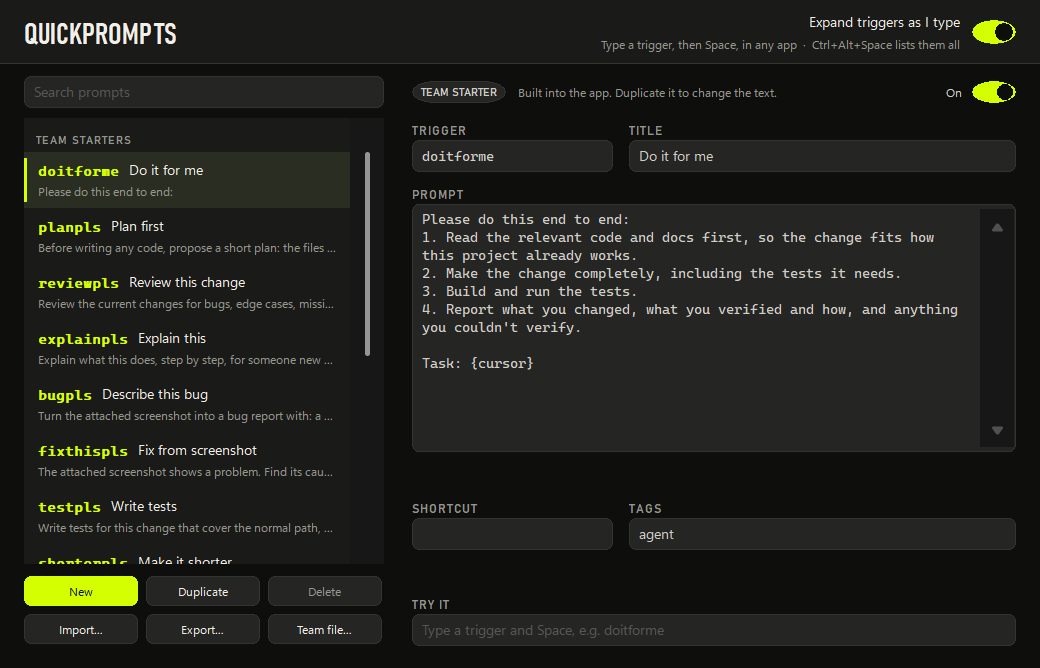
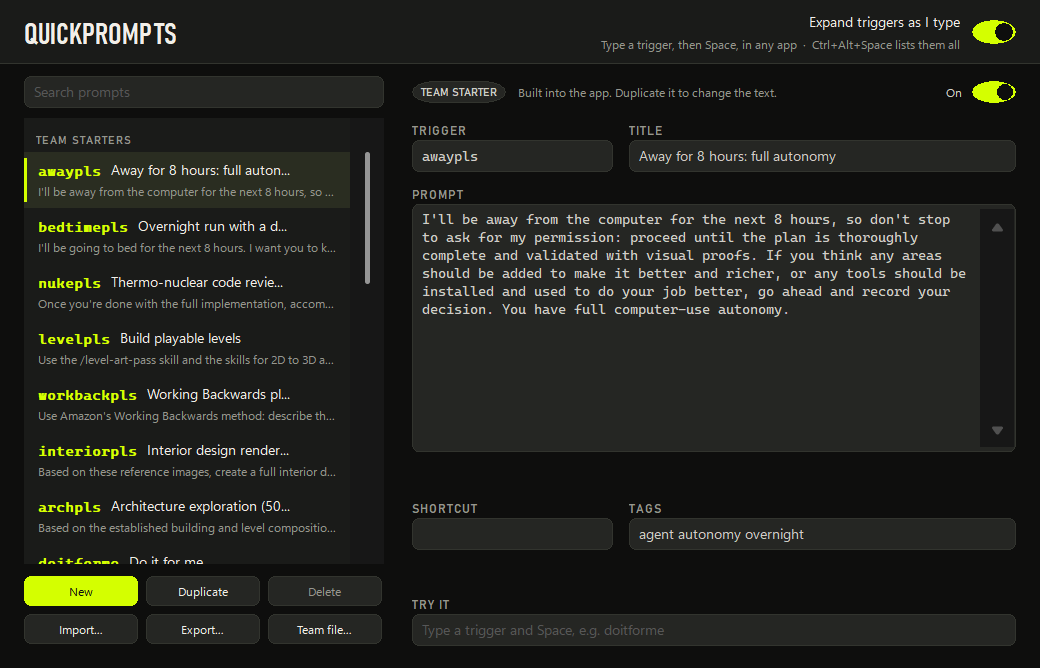
QuickPrompts: the team's seven starters (awaypls, bedtimepls, nukepls, levelpls, workbackpls, interiorpls, archpls)

diff --git a/src/quickprompts.cpp b/src/quickprompts.cpp
@@ -217,6 +217,66 @@ const std::vector<QuickPrompt>& BuiltinQuickPrompts() {
             const wchar_t *id, *trigger, *title, *text, *tags;
         };
         static const B kB[] = {
+            // The team's own starters (from the owner, 2026-11-14), listed first.
+            {L"builtin.awaypls", L"awaypls", L"Away for 8 hours: full autonomy",
+             L"I'll be away from the computer for the next 8 hours, so don't stop to ask for my permission: proceed until "
+             L"the plan is thoroughly complete and validated with visual proofs. If you think any areas should be added to "
+             L"make it better and richer, or any tools should be installed and used to do your job better, go ahead and "
+             L"record your decision. You have full computer-use autonomy.",
+             L"agent autonomy overnight"},
+            {L"builtin.bedtimepls", L"bedtimepls", L"Overnight run with a decision log",
+             L"I'll be going to bed for the next 8 hours. I want you to keep working towards the outcomes outlined and keep "
+             L"pushing for quality. I authorize you with full permissions to make the decisions needed.\n\n"
+             L"Maintain a decision log in HTML for any out-of-the-ordinary decisions you have to make over the next 8 "
+             L"hours, so I can review it tomorrow.\n\n"
+             L"I entrust you with this responsibility. Godspeed.",
+             L"agent autonomy overnight log"},
+            {L"builtin.nukepls", L"nukepls", L"Thermo-nuclear code review gate",
+             L"Once you're done with the full implementation, accompanied by visual proofs, a thermo-nuclear code review "
+             L"must also be run by an Opus agent at extra-high effort, with all critical findings addressed. This is the "
+             L"condition for your Intent to be complete.",
+             L"agent review intent"},
+            {L"builtin.levelpls", L"levelpls", L"Build playable levels",
+             L"Use the /level-art-pass skill and the skills for 2D to 3D and level blockout to build these [Level Name] "
+             L"playable levels for [Biome Name].\n\n"
+             L"- The levels must be scale-accurate for gameplay.\n"
+             L"- Levels must use ActorIO for interactive traversal and puzzle elements, using the existing premade "
+             L"templates and puzzle example setups.\n"
+             L"- Levels should use the /s2-lighting skill to follow the Lighting Standards and capture the lighting and "
+             L"color moods closest to the reference image, adding effects like FogLite, artificial lighting and other "
+             L"forms of lighting, and MegaLights where required.\n"
+             L"- Levels must have hidden rooms and contraptions that reward the player on discovery.\n"
+             L"- Levels must be performant and optimized with best practices, even with a lot of objects and actors.\n"
+             L"- Levels must be set up following World Partition streaming.\n"
+             L"- Levels must be structured to allow for modularity.\n"
+             L"- Levels must focus on sense of scale and composition, and self-correct any inaccuracies in the reference "
+             L"images.\n"
+             L"- Levels should use blockout objects first to capture the composition, then add the detailed blockout with "
+             L"better, more realistic assets from the repo library where available.\n"
+             L"- Levels must take advantage of and use the existing enemies and bosses.\n"
+             L"- If your agents have access to Blender and the Tripo API, use them. If you need Blender, install it so "
+             L"agents can use it.\n\n"
+             L"When the level is complete, run a /level-art-pass loop with a fresh-eyes review agent. The visual quality "
+             L"must reach a score of 7/10 for the Intent to be complete.",
+             L"level art unreal blockout lighting"},
+            {L"builtin.workbackpls", L"workbackpls", L"Working Backwards plan",
+             L"Use Amazon's Working Backwards method: describe the outcomes that would make our players feel joy and value "
+             L"in [Feature]. Based on that, create a living document that details the plan to reach the ultimate outcome, "
+             L"and the features and UX/UI improvements we need to get there.",
+             L"product planning ux"},
+            {L"builtin.interiorpls", L"interiorpls", L"Interior design rendering album",
+             L"Based on these reference images, create a full interior design concept rendering album of [Number] images "
+             L"covering every interior aspect of a [Luxury Beach Boutique Resort Villa Hotel]: [Front Drop-off, "
+             L"Reception, Grand Welcome Entrance, Lift Lobby, Guest Lounge, Signature Restaurants, Room Corridor, Room "
+             L"Signage, Room Closet, Toilet, Bathtub, Bedroom, Minibar Cupboard, Room Balcony], across all room types.",
+             L"concept art images interior"},
+            {L"builtin.archpls", L"archpls", L"Architecture exploration (50 images)",
+             L"Based on the established building and level compositions, generate 50 images that focus on the "
+             L"architectural designs, covering all angles and key areas of each design. I want to explore the spectrum of "
+             L"colors and materials that are [Genre] but tastefully blended with [Genre], with touches of [Theme A], "
+             L"[Theme B] and [Theme C].",
+             L"concept art images architecture"},
+            // The first starters.
             {L"builtin.doitforme", L"doitforme", L"Do it for me",
              L"Please do this end to end:\n"
              L"1. Read the relevant code and docs first, so the change fits how this project already works.\n"

diff --git a/src/main.cpp b/src/main.cpp
@@ -2081,9 +2081,9 @@ ATHER_TEST(quickprompts_settings_commands_and_ui) {
     uh.typing = [] { return true; };
     uh.pickerHotkey = [] { return std::wstring(L"Ctrl+Alt+Space"); };
     std::vector<std::wstring> rows;
-    const BitmapPtr win = QuickPromptsSnapshot(uh, L"builtin.doitforme", &rows);
+    const BitmapPtr win = QuickPromptsSnapshot(uh, BuiltinQuickPrompts()[0].id, &rows);
     CHECK(win);
-    CHECK(rows.size() > 3 && rows[0] == L"# Team starters" && rows[1] == L"doitforme");
+    CHECK(rows.size() > 3 && rows[0] == L"# Team starters" && rows[1] == BuiltinQuickPrompts()[0].trigger);
     const BitmapPtr card = QuickPromptsWelcomeSnapshot(L"Ctrl+Alt+Space");
     CHECK(card);
     std::vector<std::wstring> ids;

diff --git a/README.md b/README.md
@@ -340,7 +340,11 @@ Save the prompts and phrases you type again and again, and insert them anywhere 
 
 - **Type a trigger, then Space:** in any app (a chat with Claude or ChatGPT, Slack, an editor, a terminal), type `doitforme` and press Space. The trigger turns into the saved prompt, line breaks and all. Only Space expands: Enter, Tab and punctuation leave the word as typed, so a trigger can never send a half-finished message. `redoitforme` doesn't fire: triggers match whole words only.
 - **Or pick one:** `Ctrl+Alt+Space` lists every prompt (most used first); type to search by trigger, title or text and press Enter to paste it where you were. The picker works even with typed triggers off.
-- **Team starters:** twelve prompts come built in, ready for the team: `doitforme` (do the task end to end and report back), `planpls`, `reviewpls`, `explainpls`, `bugpls` (a bug report from your last screenshot, picture attached), `fixthispls`, `testpls`, `shorterpls`, `vienpls` (Vietnamese ↔ English), `commitpls`, `playtestpls` and `standupme`. Turn any of them off, or **Duplicate** one to change its text.
+- **Team starters:** nineteen prompts come built in, ready for the team:
+  - **Agent runs:** `awaypls` (away for 8 hours, full autonomy until it's done and proven), `bedtimepls` (overnight run that keeps an HTML decision log), `nukepls` (finish with a thermo-nuclear code review by an Opus agent), `doitforme` (do the task end to end and report back), `planpls`, `reviewpls`, `testpls`, `commitpls`.
+  - **Game and art:** `levelpls` (build playable levels: scale, ActorIO, lighting standards, hidden rooms, World Partition, a 7/10 art-pass gate), `interiorpls` (an interior design rendering album), `archpls` (50 architecture exploration images), `playtestpls`, `bugpls` (a bug report from your last screenshot, picture attached), `fixthispls`.
+  - **Planning and writing:** `workbackpls` (Amazon Working Backwards into a living plan), `explainpls`, `shorterpls`, `vienpls` (Vietnamese ↔ English), `standupme`.
+  - Words in `[brackets]`, like `[Level Name]`, are for you to fill in after pasting. Turn any starter off, or **Duplicate** one to change its text.
 - **Your own:** palette → "QuickPrompts…" (or Settings › QuickPrompts, or the tray). **New** starts one; changes save as you type. A prompt has a trigger (2–32 characters, no spaces), a title, the text, tags, and optionally its own shortcut (e.g. `Ctrl+Alt+1`) that pastes it directly. "Save clipboard as a QuickPrompt…" makes one from what you copied. The **Try it** box at the bottom expands triggers right there, so you can test without leaving the window.
 - **Placeholders** in the text:
 

diff --git a/RELEASE_NOTES.md b/RELEASE_NOTES.md
@@ -17,7 +17,7 @@ doesn't have it yet.
 
 - **Type a trigger, then Space:** in any app, `doitforme` followed by Space turns into your saved prompt, line breaks and all. Only Space expands, so Enter never sends a half-finished message, and triggers match whole words only.
 - **Or pick one:** `Ctrl+Alt+Space` lists every prompt; type to search and press Enter to paste it where you were.
-- **Team starters:** twelve built-in prompts for the team, among them `doitforme`, `planpls`, `reviewpls`, `bugpls` (a bug report from your last screenshot, with the picture), `fixthispls`, `testpls`, `vienpls` (Vietnamese ↔ English) and `playtestpls`. Turn any off, or duplicate one to change it.
+- **Team starters:** nineteen built-in prompts for the team, among them `awaypls` and `bedtimepls` (long unattended agent runs), `nukepls` (a thermo-nuclear code review gate), `levelpls` (build playable levels to the team's standards), `interiorpls` and `archpls` (concept image sets), `workbackpls` (Working Backwards plan), `doitforme`, `reviewpls` and `bugpls` (a bug report from your last screenshot, with the picture). Turn any off, or duplicate one to change it.
 - **Your own and the team's:** palette → "QuickPrompts…" to write your own (saved as you type, with a Try it box), give one its own shortcut, or point everyone at a shared `quickprompts-team.json`. Imports macOS Text Replacements and CSV.
 - **Placeholders:** `{cursor}`, `{clipboard}`, `{date}`, `{time}`, `{lastcapture}` and `{lastcapture:image}`, which pastes your last screenshot after the text.
 - **Your clipboard stays yours:** prompts are pasted through the clipboard, which gets back what it held, and they stay out of Windows' clipboard history.

diff --git a/docs/intent/text-shortcuts/log.md b/docs/intent/text-shortcuts/log.md
@@ -24,3 +24,16 @@ Append-only. Each user prompt verbatim, with credentials and machine paths redac
 ("Your suggestion" was: release to the team first, before a public update, because an always-on listener in an
 unsigned app may draw antivirus attention. Read as: ship as the staging pre-release, which the in-app updater never
 offers; a public release stays the owner's `package.bat publish`.)
+
+## L-4 (2026-11-14) | class: intent | -> rev 3 (content)
+
+> Now let's add the QuickPrompts starter content, i have a few to share with you ill send them in this thread
+
+## L-5 (2026-11-14) | class: intent | -> rev 3 (content)
+
+> Help me fill in the rest
+
+Followed by seven prompt texts (agent away 8 hours, level building, thermo-nuclear code review gate, Working
+Backwards, overnight run with a decision log, interior design rendering album, architecture exploration). They are in
+`BuiltinQuickPrompts()` in `src/quickprompts.cpp` as `awaypls`, `levelpls`, `nukepls`, `workbackpls`, `bedtimepls`,
+`interiorpls` and `archpls`, with spelling fixed (see progress.md, S6); the owner's originals are in the conversation.

diff --git a/docs/intent/text-shortcuts/progress.md b/docs/intent/text-shortcuts/progress.md
@@ -41,3 +41,7 @@
 - **Starter wording** is the rev 2 draft, tightened; the owner edits it before a public release.
 - **Backspace-to-undo** (D4, nice-to-have) isn't built.
 - **Version:** not changed (0.0.2 / 0.0.2.7). The team gets it from the staging pre-release; a numbered release is the owner's call.
+
+## Content
+
+- S6 (rev 3, 2026-11-14): the owner's seven prompts (L-5) added as built-in starters, listed first: `awaypls`, `bedtimepls`, `nukepls`, `levelpls`, `workbackpls`, `interiorpls`, `archpls` (19 starters in all). Triggers, titles and tags are the worker's. Wording kept, with spelling and grammar fixed: "inreractiv3" → "interactive", "form of Lightings" → "forms of lighting", "Megalights" → "MegaLights", "WorldSreamingPartitions" → "World Partition streaming", "If your Agents has" → "If your agents have", "wording towards" → "working towards", "I author you" → "I authorize you", "Ill"/"i" → "I'll"/"I"; the level prompt's requirements are a bulleted list. `[Bracketed]` words stay for people to fill in after pasting.
